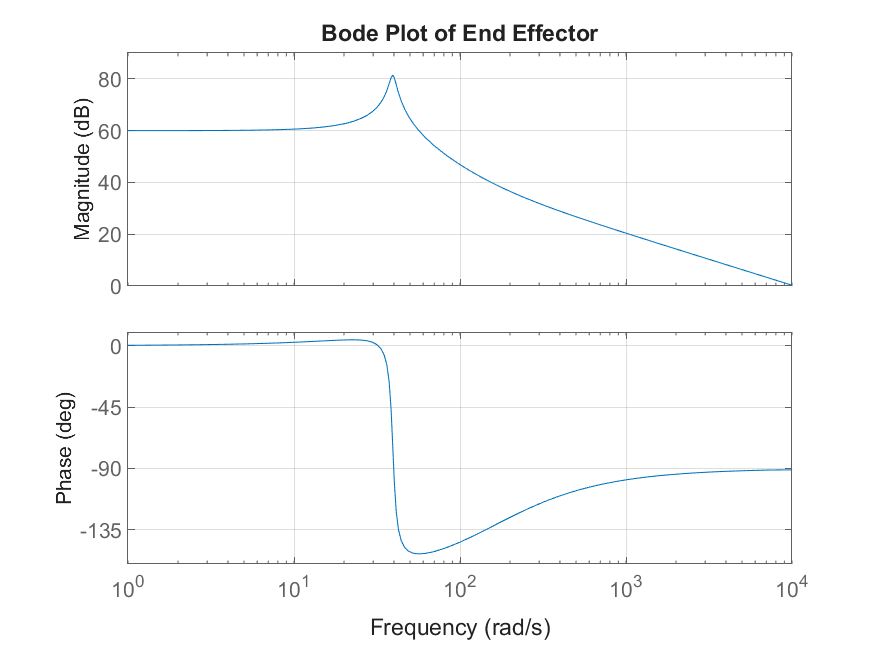
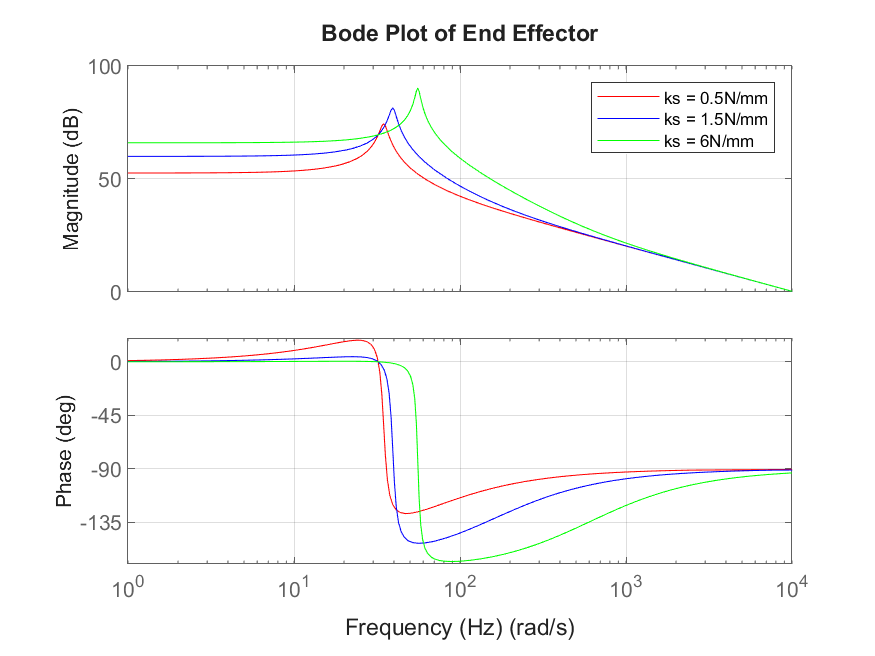
add plot for varying ks

diff --git a/control/main.m b/control/main.m
@@ -10,41 +10,61 @@ de0 = 564.5;
 rg = 0.005;
 
 ke = 3.0 * 1e3;
-ks = 1.5 * 1e3;
+ks = [0.5, 1.5, 6.0]* 1e3;
 cf = 0.01 * 1e3;
+
 M = 2.9;
 
 
-% tune PID controller
+% trasfer functions of the system
 speed_loop = tf([num1, num0], [de2, de1, de0]);
 rgOverS = tf(rg, [1, 0]);
-end_effector = tf([ke*cf, ke*ks], [M, cf, (ke + ks)]);
-
-G = speed_loop * rgOverS * end_effector;
 
 
-% bode plot for the speed loop 
+colors = ['r', 'b', 'g'];
+
+
+% bode plot for the end effector
 figure();
-bode(end_effector); 
-grid on;
+end_effector = [];
+
+for i = 1:length(ks)
+    end_effector = [end_effector, tf([ke*cf, ke*ks(i)], [M, cf, (ke + ks(i))])];
+end
+
+bodeplot(end_effector(1), 'r', end_effector(2), 'b' , end_effector(3), 'g');
+legend('ks = 0.5N/mm','ks = 1.5N/mm', 'ks = 6N/mm');
 title('Bode Plot of End Effector');
+grid on;
+xlabel('Frequency (Hz)');
 saveas(gcf, 'assets/bode_end_effector.png');
 
 
-% bode plot for the open-loop system
+% Nyquist diagram for open-loop system
 figure();
-bode(G); 
+G = [];
+
+for i = 1:length(ks)
+    G = [G, speed_loop * rgOverS * end_effector(i)];
+end
+
+nyquist(G(1), 'r', G(2), 'b' , G(3), 'g');
+legend('ks = 0.5N/mm','ks = 1.5N/mm', 'ks = 6N/mm');
+title('Nyquist Diagram of the Open-Loop System');
 grid on;
+xlabel('Frequency (Hz)');
+saveas(gcf, 'assets/nyquist_open_loop.png')
+
+
+% bode plot for the open-loop system
+bodeplot(G(1), 'r', G(2), 'b' , G(3), 'g');
+legend('ks = 0.5N/mm','ks = 1.5N/mm', 'ks = 6N/mm');
 title('Bode Plot of Open-loop system');
+grid on;
+xlabel('Frequency (Hz)');
 saveas(gcf, 'assets/bode_open_loop.png');
 
 
-% Nyquist diagram 
-figure();
-nyquist(G);
-grid on;
-title('Nyquist Diagram of the Open-Loop System');
-saveas(gcf, 'assets/nyquist_open_loop.png')
 
 
 
